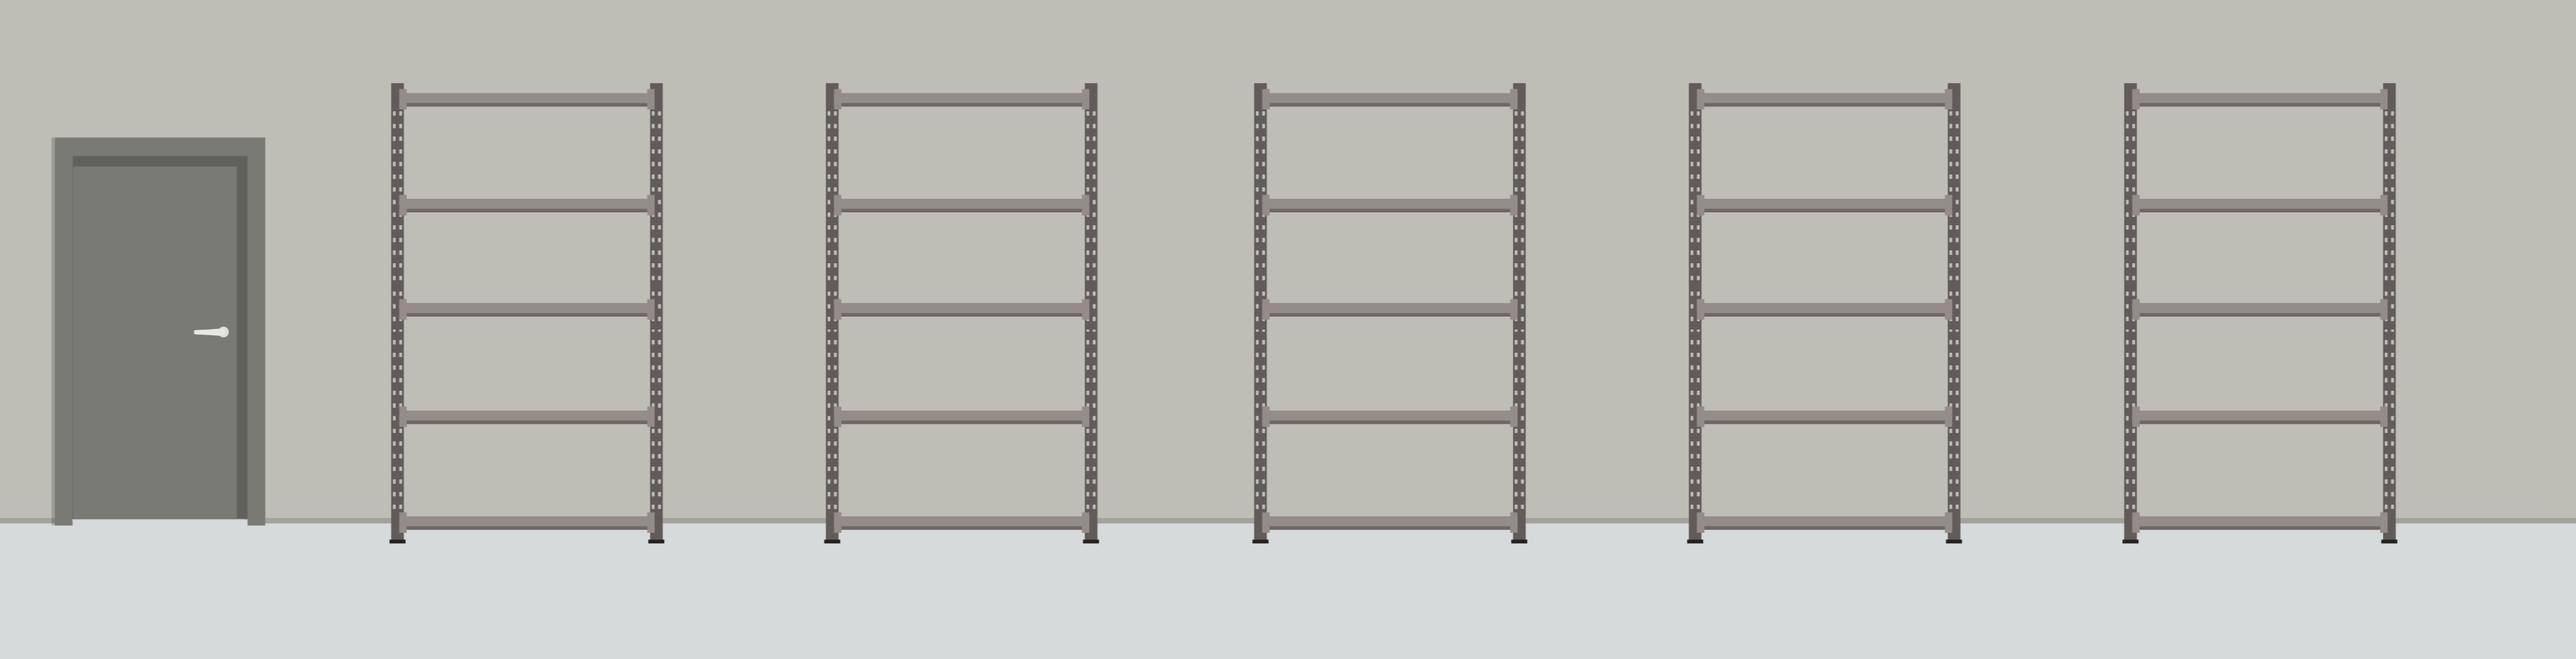
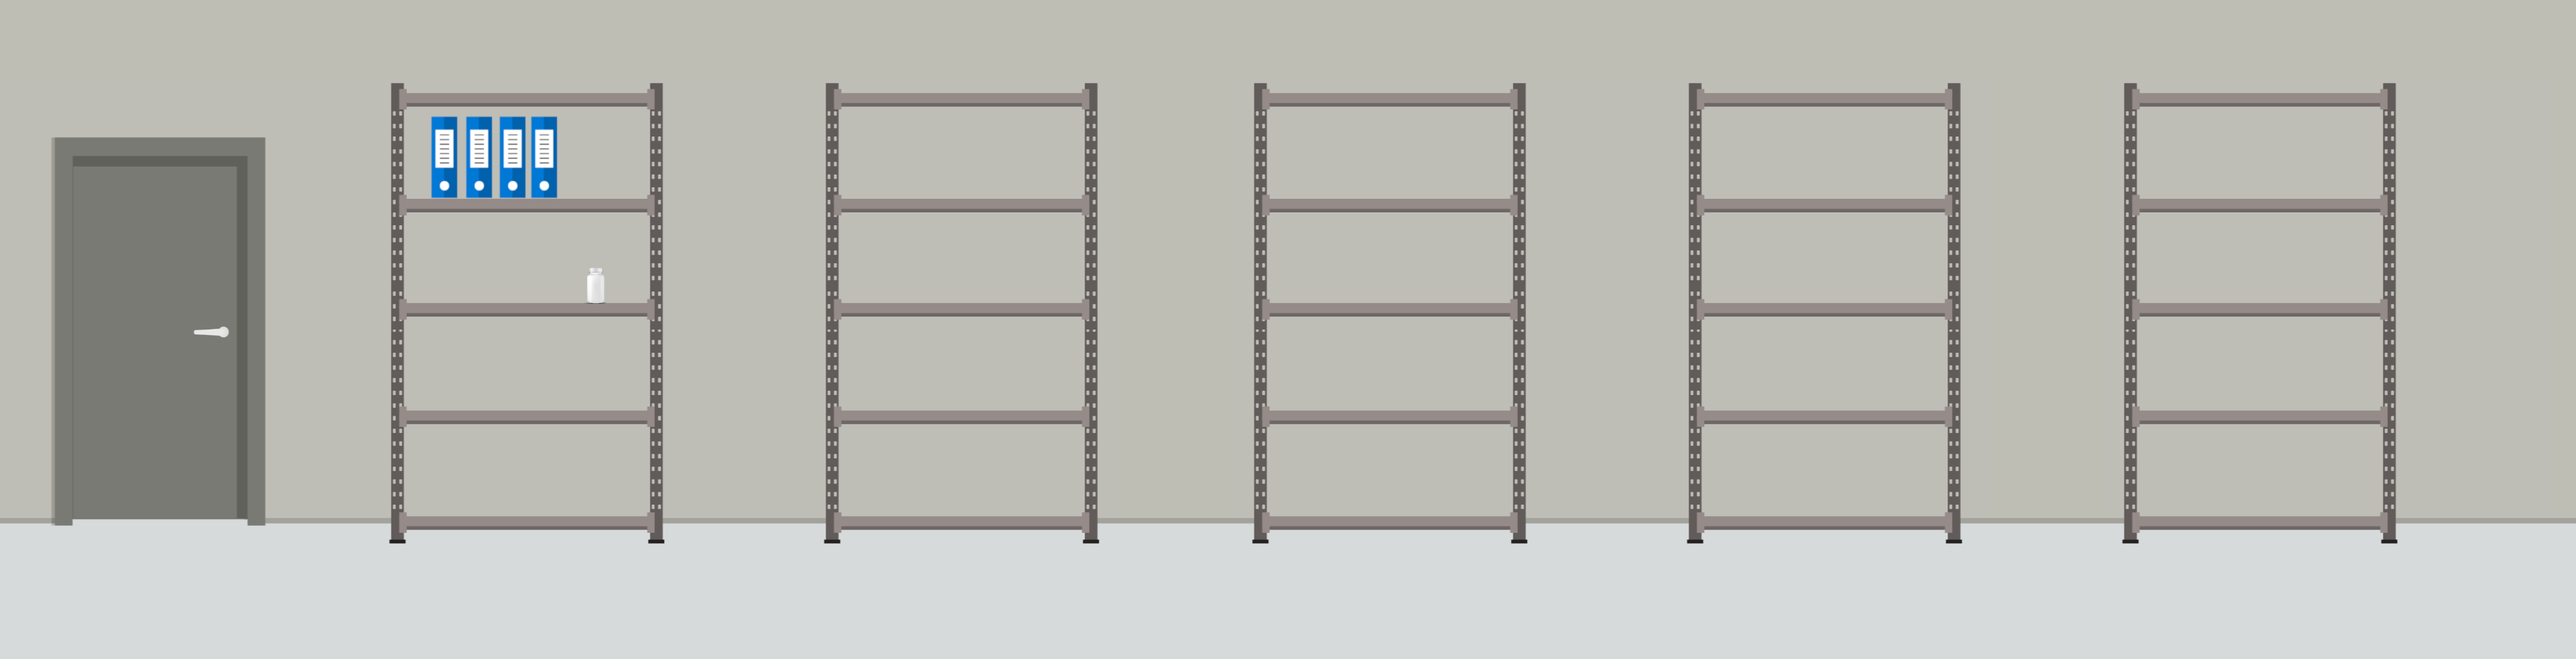
Room view with Pan and clickable binders and objects, object added to shelf

Changed region(s): [[0.1562, 0.1562, 0.2188, 0.3125], [0.2188, 0.4062, 0.25, 0.4688]]

diff --git a/js/room.js b/js/room.js
@@ -74,7 +74,95 @@ if (typeof ES == 'undefined') {
     }
 
     showRoom(){
-      $(this.container).html();
+      $(this.container).hide();
+      $(this.container).parent().find('.heading').remove();      
+      this.roomDesign();
+    }
+
+    roomDesign(){
+      this.initRoomView();
+      this.initToolbar();
+      this.initPan();
+      //this.initZoom();      
+    }
+
+    initRoomView(){
+      var oSelf = this;
+      $(this.container).parent().find('#roomHolder').show();
+
+      $(window).resize(function(){
+        oSelf.setRoomSize();
+      });
+
+      this.setRoomSize();
+
+      $('#roommap').find('.openmodal').click(function(event){
+        oSelf.openModal(this);
+        event.stopPropagation();
+      });
+    }
+
+    openModal(area){
+      $('#modal').modal();
+      $('#modal .modal-body').html('<img class="img-fluid" title="'+$(area).attr('title')+'" src="' + $(area).attr('src') + '" />');
+      var shelfObj = {
+        type: 'image',
+        title: $(area).attr('title'),
+        src: $(area).attr('src')
+      };
+      if(!ES.alreadyOnShelf(shelfObj)){
+        $('#modal .modal-footer').html('<button class="btn btn-danger add2shelf"> + </button>');
+        $('#modal .modal-footer .add2shelf').bind('click', function(){        
+          ES.shelf.push(shelfObj);
+          $(this).parent().append('<div class="alert alert-success">Added to shelf</div>');
+          $(this).fadeOut();
+        });
+      }else{
+        $('#modal .modal-footer').html('<div class="alert alert-info">Already added to Shelf</div>');
+      }
+    }
+
+    //== set the room size 
+    setRoomSize(){
+      $('#roomHolder').height(document.body.offsetHeight-60);
+    }
+
+    initToolbar(){      
+      $('#roomToolbar').show();
+      $('#roomToolbar > .switch').eq(0).bind('click',ES.seeAllRooms);
+    }
+
+    initPan(){
+      $('#roomPan').show();
+
+      $('#roomPan > #panleft').bind('click',function(){
+        var m = parseInt($('#roomImage').css('marginLeft')) + 50;
+        if(m > 0){
+          m = 0;
+        }
+        $('#roomImage').css('marginLeft', m);
+      });
+
+      $('#roomPan > #panright').bind('click',function(){
+        var m = parseInt($('#roomImage').css('marginLeft')) - 50;
+        var w1 = $('#roomImage').width();
+        var w2 = $('#roomHolder').width();
+        if(m*-1 > w1-w2){
+          m= (w1-w2)*-1;
+        }
+        $('#roomImage').css('marginLeft', m);
+      });
+    }
+
+    initZoom(){
+      $('#roomZoom').show();
+      $('#btnzoom').bind('change',function(){        
+        /*if(this.checked){
+          $('#roomImage').css('height',$('#roomImage').width());      
+        }else{
+          $('#roomImage').css('height','100%');
+        }*/
+      });
     }
 
     destroy(){

diff --git a/js/main.js b/js/main.js
@@ -8,6 +8,7 @@ ES.roomVisited=[]; //== none as of now
 ES.roomListObj = null;
 ES.timebarObj = null;
 ES.pauseTimerObj = new ES.PauseTimer({container: $('#pauseTimer')});
+ES.shelf = []; //== document shelf 
 
 //== global function available to ES namespace
 ES.next = () => ({
@@ -21,20 +22,21 @@ ES.next = () => ({
     $('#app').html($('#tpl-intro').html());
     $('#app').find('.box').removeClass('d-none').hide().fadeIn();
     $('#app').find('.btn-cont').bind('click',() => {
-      ES.step='roomList'; //== list of rooms to be chosen
-      ES.next();
+      ES.seeAllRooms();
     });
   },
 
   'roomList': function (){    
-    //== attach the simulation timebar
-    $('#root').append($('#tpl-timebar').html());
-    $('#tpl-timebar').remove();
-    ES.timebarObj = new ES.TimeBar({
-      container: $('#root > .timebar')
-    });
+    if(!ES.timebarObj){
+      //== attach the simulation timebar
+      $('#root').append($('#tpl-timebar').html());
+      $('#tpl-timebar').remove();
+      ES.timebarObj = new ES.TimeBar({
+        container: $('#root > .timebar')
+      });
+    }
     $('#app').html($('#tpl-room').html());    
-    ES.roomListObj = new ES.RoomList({container: $('#app div.roomListBox > .row')});
+    ES.roomListObj = new ES.RoomList({container: $('#app div.roomListBox > .rooms-list')});
     ES.roomListObj.load();
   },
 
@@ -44,6 +46,15 @@ ES.next = () => ({
 
 
 })[ES.step]();
+
+ES.seeAllRooms = () => {
+  ES.step='roomList'; //== list of rooms to be chosen
+  ES.next();
+};
+
+ES.alreadyOnShelf = obj => {
+  return (ES.shelf.filter((ele) => ele.type==obj.type && ele.name==obj.name)).length > 0;
+};
 
 
 

diff --git a/css/main.css b/css/main.css
@@ -125,3 +125,60 @@ p.complete-text{
   width: 20px;
   height: 20px;
 }
+
+#roomHolder{  
+  display:none;
+  overflow: hidden;   
+  margin-left:-15px;
+  margin-right: -15px; 
+}
+
+#roomHolder img#roomImage{
+  
+}
+
+#roomToolbar{      
+  position: absolute;
+  top: 50px;
+  left: 0px;  
+  background-color: #ddd;
+  border: 1px Solid #ccc;  
+}
+
+#roomToolbar .switch{
+  cursor: pointer;
+}
+
+#roomToolbar .switch.active, 
+#roomToolbar .switch:hover{
+  background-color: #E8DAA2;
+}
+
+#roomToolbar .switch span.fa{
+  font-size: 40px;
+}
+
+#roomToolbar .switch span.fa div.text{    
+  width: 60px;
+  font-size: 12px;
+}
+
+#roomPan{      
+  position: absolute;
+  top: 50px;
+  left: 280px;
+}
+
+#roomPan span{
+  background-color: #5A80FB;
+  padding: 10px;
+  color: #fff;
+  cursor: pointer;
+  margin: 2px;
+}
+
+#roomZoom{
+  position: absolute;
+  top: 50px;
+  left: 450px;
+}

diff --git a/includes/views/room.tpl.php b/includes/views/room.tpl.php
@@ -1,6 +1,60 @@
-<div class="container-fluid h-100 p-5">
+<div class="container-fluid h-100">
   <div class="roomListBox">
-    <h2 class="text-center">Select a room</h2>
-    <div class="row"></div>  
+    
+    <h2 class="text-center heading m-5">Select a room</h2>
+    <div class="row rooms-list mb-5"></div>  
+
+    <div id="roomHolder"><img id="roomImage" src="/images/bg-room-1.png" usemap="#roommap" /></div>
+    <map name="roommap" id="roommap">
+      <area shape="rect" coords="670,180,710,310" href="sun.htm" title="book binder 1" />
+      <area shape="rect" coords="723,180,765,310" href="sun.htm" title="book binder 2" />
+      <area shape="rect" coords="775,180,817,310" href="sun.htm" title="book binder 3" />
+      <area shape="rect" coords="824,180,866,310" href="sun.htm" title="book binder 4" />
+      <area shape="rect" coords="911,416,939,473" src="/images/pills.png" title="Pills" class="openmodal" />
+    </map>
+
+    <div id="roomToolbar" style="display:none;" class="row">
+      <div id="switch-allrooms" class="switch col text-center"><span class="fa fa-home"><div class="text">All Rooms</div></span></div>
+      <div id="switch-roomview" class="switch active col text-center"><span class="fa fa-map-marker"><div class="text">Room View</div></span></div>
+      <div id="switch-workarea" class="switch col text-center"><span class="fa fa-edit"><div class="text">Work Area</div></span></div>
+    </div>
+
+    <div id="roomPan" class="text-center" style="display:none;">
+      <span id="panleft" class="btn fa fa-arrow-left"></span>
+      <span id="panright"  class="btn fa fa-arrow-right"></span>
+      <div class="text">Pan Across the Room</div>
+    </div>
+
+    <div id="roomZoom" class="text-center" style="display:none;">
+      <div class="custom-control custom-switch">
+        <input type="checkbox" class="custom-control-input" id="btnzoom">
+        <label class="custom-control-label" for="btnzoom"></label>
+      </div>      
+      <div class="text">Toggle Zoom</div>
+    </div>
+
+  </div>
+</div>
+
+<!-- The Modal -->
+<div class="modal fade" id="modal">
+  <div class="modal-dialog modal-lg">
+    <div class="modal-content">
+
+      <!-- Modal Header -->
+      <div class="modal-header">
+        <h4 class="modal-title"></h4>
+        <button type="button" class="close" data-dismiss="modal">&times;</button>
+      </div>
+
+      <!-- Modal body -->
+      <div class="modal-body">        
+      </div>
+
+      <!-- Modal footer -->
+      <div class="modal-footer">        
+      </div>
+
+    </div>
   </div>
 </div>
